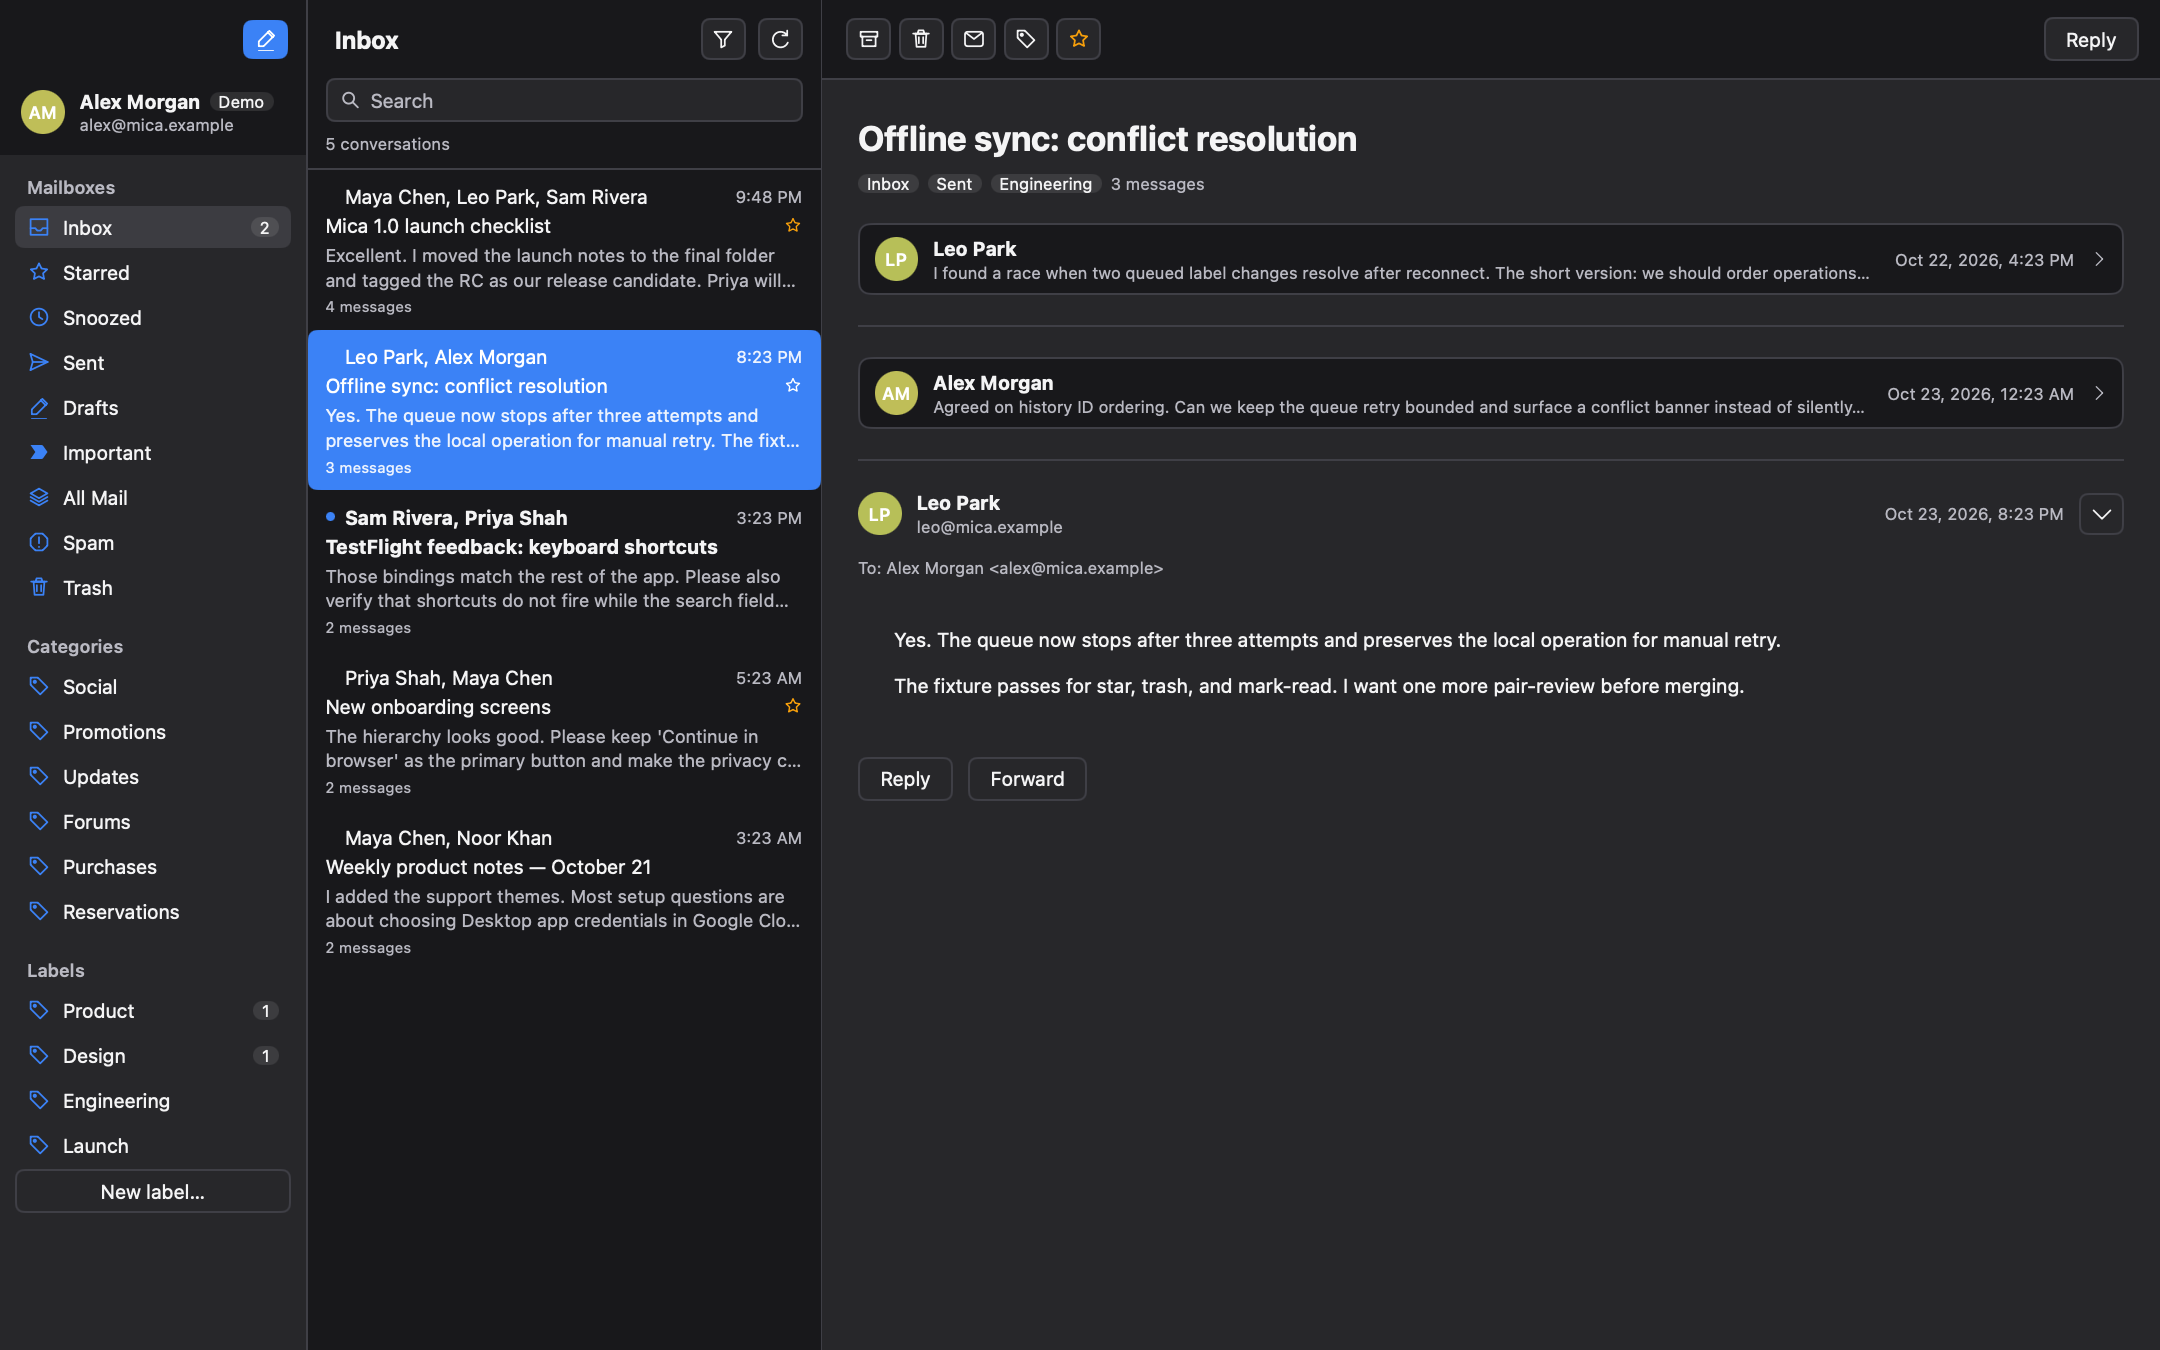
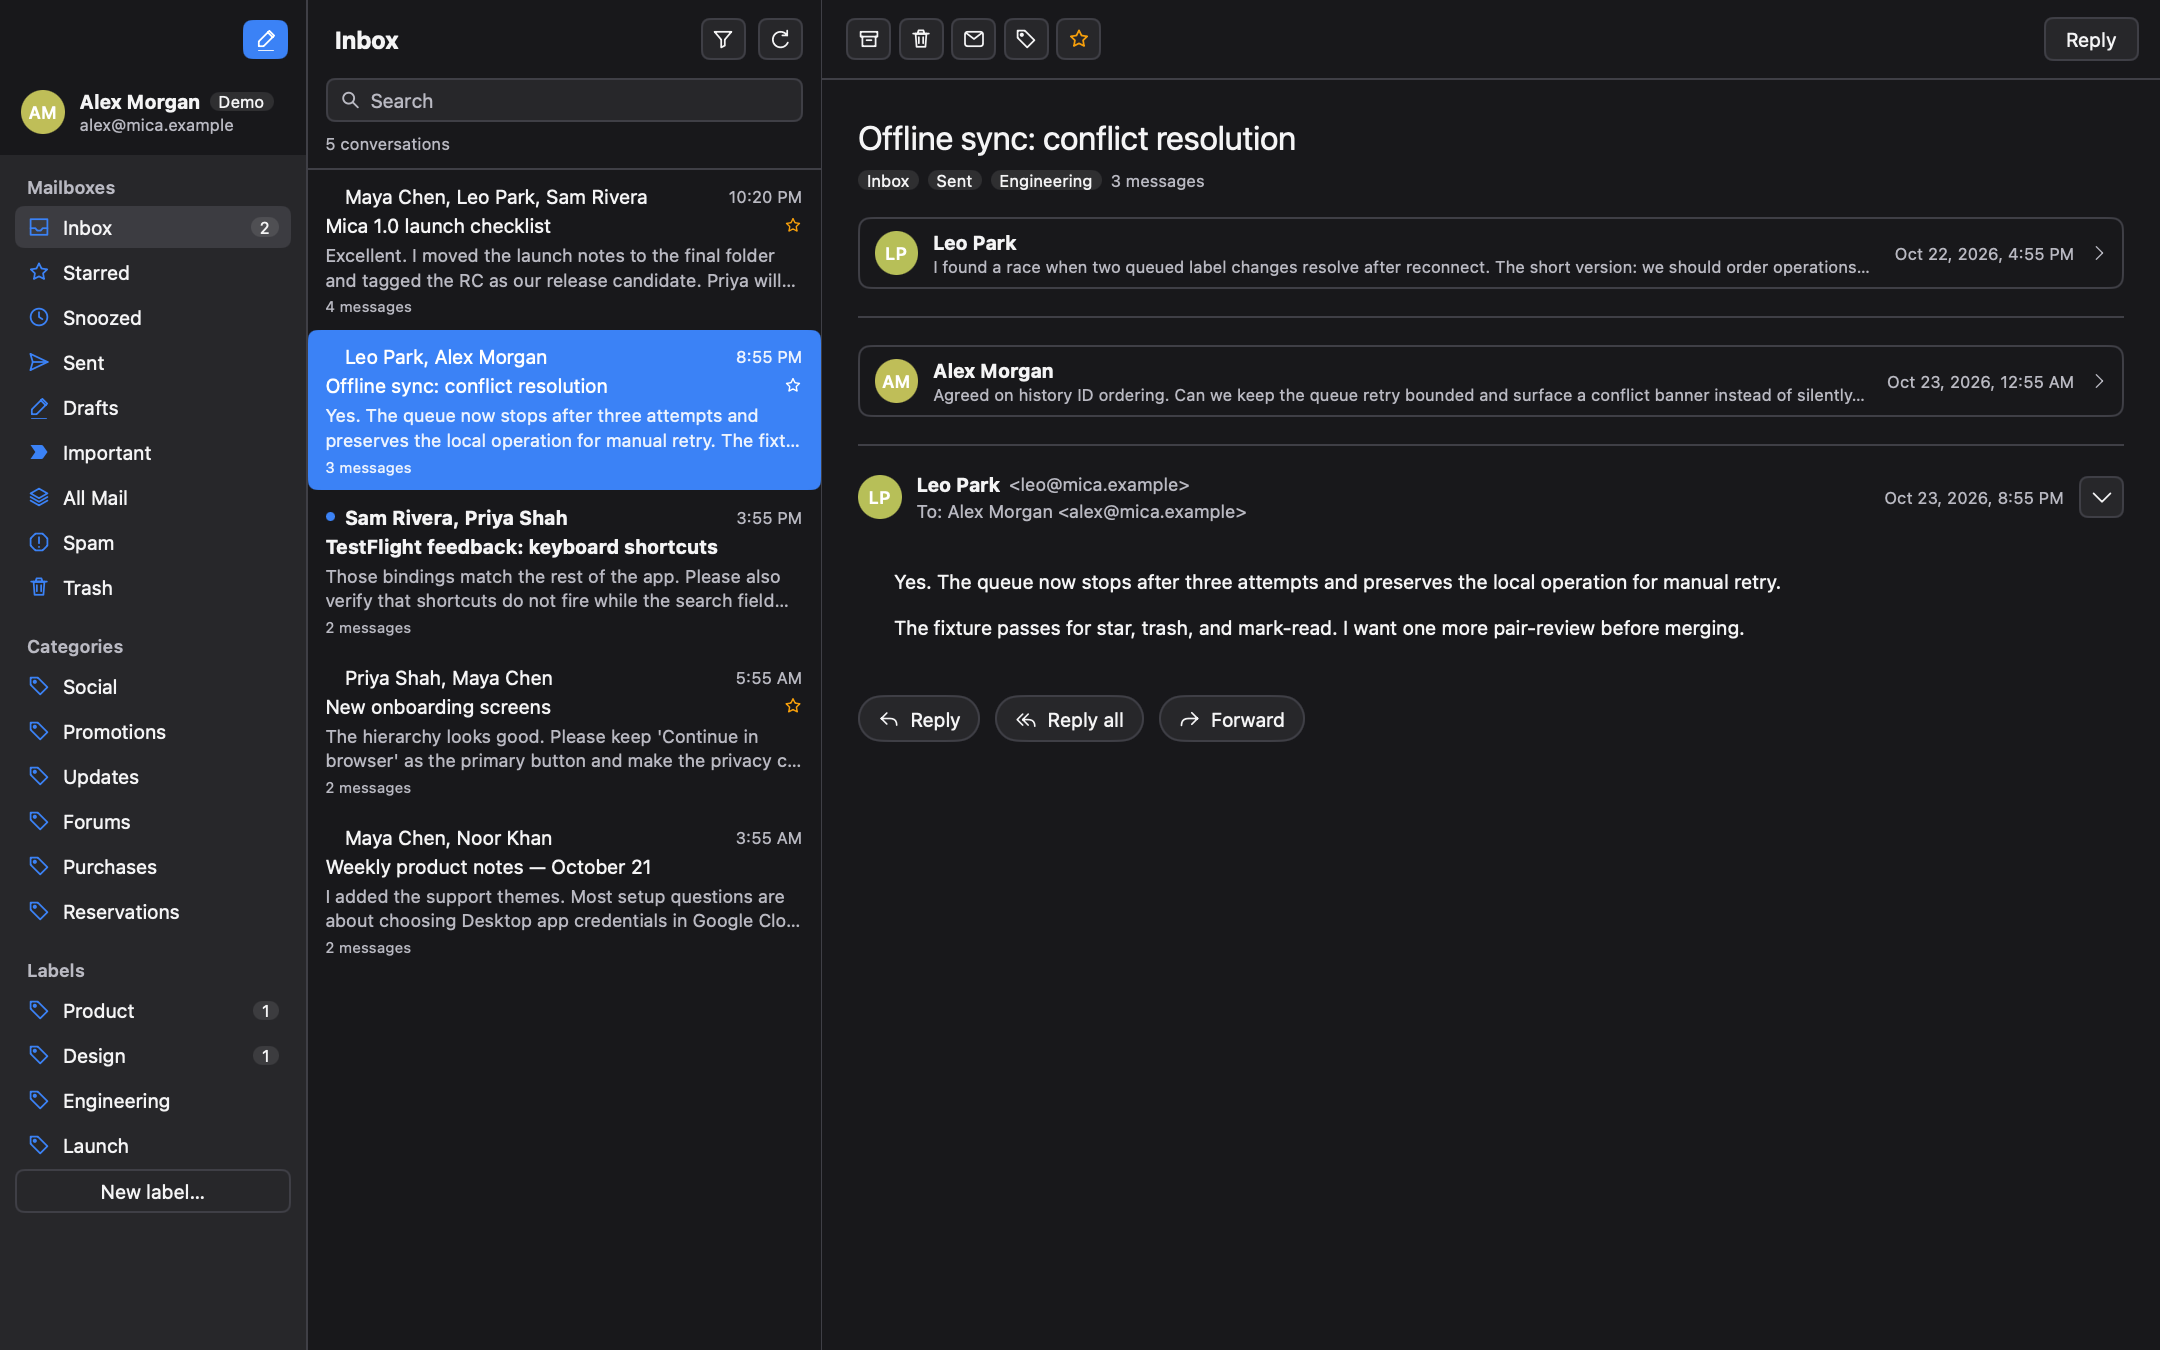
feat: refresh conversation reader

Changed region(s): [[0.4032, 0.0933, 0.9926, 0.5911]]

diff --git a/internal/app/reading.go b/internal/app/reading.go
@@ -83,14 +83,14 @@ func (a *App) labelMenu(m *ui.Menu) {
 func (a *App) threadContent(c *ui.Context) {
 	t := c.Theme()
 	thread := a.thread
-	ui.Scroll(c.Key("read-" + thread.ID)).TrackScroll(&a.readerScroll).Grow(1).Background(t.Surface).Transition(ui.ElementTransition{
+	ui.Scroll(c.Key("read-" + thread.ID)).TrackScroll(&a.readerScroll).Grow(1).Background(t.Background).Transition(ui.ElementTransition{
 		Enter:    &ui.Motion{Y: 10, Opacity: 0},
 		Duration: 240 * time.Millisecond,
 	}).Children(func() {
 		ui.Row(c).Justify(ui.Center).Children(func() {
-			ui.Column(c).Grow(1).MaxWidth(960).Padding(24, 24, 32, 24).Gap(20).Children(func() {
-				ui.Column(c).Gap(10).Children(func() {
-					ui.Text(c, thread.Subject).FontSize(23).Bold().LineHeight(1.25)
+			ui.Column(c).Grow(1).MaxWidth(960).Padding(24, 24, 32, 24).Gap(18).Children(func() {
+				ui.Column(c).Gap(8).Children(func() {
+					ui.Text(c, thread.Subject).FontSize(22).LineHeight(1.3)
 					ui.Row(c).Gap(6).Children(func() {
 						if containsLabel(thread.LabelIDs, mail.Important) {
 							ui.Icon(c, iconImportant).Size(14, 14).TextColor(t.Warning).Label(locales.Important())
@@ -115,17 +115,27 @@ func (a *App) threadContent(c *ui.Context) {
 					a.messageView(c, i, message)
 				}
 				ui.Row(c).Gap(10).Children(func() {
-					ui.Button(c, locales.Reply()).OnClick(a.openReply)
-					ui.Button(c, locales.Forward()).OnClick(a.openForward)
+					threadAction(c, locales.Reply(), iconReply, a.openReply)
+					threadAction(c, locales.ReplyAll(), iconReplyAll, a.openReplyAll)
+					threadAction(c, locales.Forward(), iconForward, a.openForward)
 				})
 			})
 		})
 	})
 }
 
+func threadAction(c *ui.Context, label string, glyph *ui.SVG, action func()) {
+	ui.Button(c, "").Label(label).Padding(7, 12).Radius(16).Children(func() {
+		ui.Row(c).Gap(7).AlignItems(ui.Center).Children(func() {
+			ui.Icon(c, glyph).Size(15, 15)
+			ui.Text(c, label)
+		})
+	}).OnClick(action)
+}
+
 func (a *App) messageView(c *ui.Context, index int, message mail.Message) {
 	t := c.Theme()
-	container := ui.Column(c.Key(message.ID)).Gap(14)
+	container := ui.Column(c.Key(message.ID)).Gap(12)
 	if a.messageScroll == index {
 		container.ScrollIntoView()
 		a.messageScroll = -1
@@ -137,21 +147,23 @@ func (a *App) messageView(c *ui.Context, index int, message mail.Message) {
 		}
 		ui.Row(c).Gap(10).AlignItems(ui.Center).Children(func() {
 			ui.Avatar(c, addressName(message.From), nil)
-			ui.Column(c).Grow(1).MinWidth(0).Gap(2).Children(func() {
-				ui.Row(c).Gap(5).AlignItems(ui.Center).Children(func() {
-					ui.Text(c, addressName(message.From)).Bold().SingleLine()
+			ui.Column(c).Grow(1).MinWidth(0).Gap(3).Children(func() {
+				ui.Row(c).Gap(6).AlignItems(ui.Center).Children(func() {
+					ui.Text(c, addressName(message.From)).Bold().SingleLine().MinWidth(0)
 					if containsLabel(message.LabelIDs, mail.Important) {
 						ui.Icon(c, iconImportant).Size(13, 13).TextColor(t.Warning).Label(locales.Important())
 					}
+					if email := addressEmail(message.From); email != "" {
+						ui.Text(c, "<"+email+">").FontSize(12).TextColor(t.TextMuted).SingleLine().Grow(2).MinWidth(0)
+					}
 				})
-				ui.Text(c, addressEmail(message.From)).FontSize(11).TextColor(t.TextMuted).SingleLine()
+				if message.To != "" {
+					ui.Text(c, locales.SendTo(message.To)).FontSize(12).TextColor(t.TextMuted).SingleLine()
+				}
 			})
-			ui.Text(c, fullTime(c, message.Date)).FontSize(11).TextColor(t.TextMuted)
+			ui.Text(c, fullTime(c, message.Date)).FontSize(11).TextColor(t.TextMuted).Shrink(0)
 			iconButton(c, locales.CollapseMessage(), iconChevronDown, func() { a.setMessageExpanded(message.ID, false) })
 		})
-		if message.To != "" {
-			ui.Text(c, locales.SendTo(message.To)).FontSize(11).TextColor(t.TextMuted)
-		}
 		if message.HTML != "" && a.emailDocument(message).hasContent {
 			a.emailView(c, message)
 		} else if message.Text != "" {

diff --git a/internal/app/email_web_test.go b/internal/app/email_web_test.go
@@ -22,7 +22,7 @@ func TestEmailDocumentPreservesLayoutWithoutScripts(t *testing.T) {
 			t.Fatalf("sanitized body contains %q: %q", unwanted, body)
 		}
 	}
-	document := emailDocumentHTML(body, false)
+	document := emailDocumentHTML(body)
 	if !strings.Contains(document, "default-src 'none'") || !strings.Contains(document, `id="godwit-body"`) {
 		t.Fatalf("document has no isolated body or CSP: %q", document)
 	}
@@ -59,12 +59,21 @@ func TestEmailResourceHandlerServesDataImage(t *testing.T) {
 	}
 }
 
-func TestEmailDocumentUsesDarkModeWithoutInvertingAwareMail(t *testing.T) {
-	if document := emailDocumentHTML(`<style data-dark="">#godwit-body{color:white}</style><p>Dark</p>`, true); !strings.Contains(document, `class="godwit-dark"`) {
+func TestEmailDocumentOnlyInvertsLightOnlyMail(t *testing.T) {
+	if document := emailDocumentHTML(`<style data-dark="">#godwit-body{color:white}</style><p>Dark</p>`); strings.Contains(document, `class="godwit-invert"`) {
 		t.Fatalf("dark-aware mail was inverted: %q", document)
 	}
-	if document := emailDocumentHTML(`<p>Light</p>`, true); !strings.Contains(document, `class="godwit-dark godwit-invert"`) {
-		t.Fatalf("light-only mail was not inverted: %q", document)
+	if document := emailDocumentHTML(`<p>Light</p>`); !strings.Contains(document, `class="godwit-invert"`) {
+		t.Fatalf("light-only mail was not marked for dark-mode inversion: %q", document)
+	}
+}
+
+func TestEmailDocumentFollowsAppearanceChanges(t *testing.T) {
+	document := emailDocumentHTML(`<p>Light</p>`)
+	for _, want := range []string{"@media (prefers-color-scheme: dark)", `class="godwit-invert"`} {
+		if !strings.Contains(document, want) {
+			t.Fatalf("document does not follow appearance changes: missing %q in %q", want, document)
+		}
 	}
 }
 
@@ -99,7 +108,7 @@ func TestEmailResourceStoreIsNotReplacedOnAccountSwitch(t *testing.T) {
 
 func TestEmailDocumentReadingInset(t *testing.T) {
 	const inset = ":where(#godwit-body){box-sizing:border-box;padding:0 24px}"
-	document := emailDocumentHTML(`<p>Body</p>`, false)
+	document := emailDocumentHTML(`<p>Body</p>`)
 	for _, want := range []string{inset, `#godwit-body:has(>[style*="padding"]){padding:0}`} {
 		if !strings.Contains(document, want) {
 			t.Fatalf("document is missing reading inset rule %q: %q", want, document)
@@ -110,7 +119,7 @@ func TestEmailDocumentReadingInset(t *testing.T) {
 		t.Fatalf("inline body padding is not a top-level element: %q", inline)
 	}
 	body := prepareEmailHTML(newEmailResourceStore(newFakeService()), mail.Message{HTML: `<style>body{padding:40px}</style><p>Body</p>`})
-	document = emailDocumentHTML(body, false)
+	document = emailDocumentHTML(body)
 	own := "#godwit-body{padding:40px"
 	defaultAt, ownAt := strings.Index(document, inset), strings.Index(document, own)
 	if defaultAt < 0 || ownAt < 0 || defaultAt > ownAt {
@@ -119,7 +128,7 @@ func TestEmailDocumentReadingInset(t *testing.T) {
 }
 
 func TestEmailDocumentUsesSystemFont(t *testing.T) {
-	for _, want := range []string{"-apple-system", "14px/normal"} {
+	for _, want := range []string{"-apple-system", "14px/1.5"} {
 		if !strings.Contains(emailFrameCSS, want) {
 			t.Fatalf("system font is missing %q", want)
 		}

diff --git a/internal/app/email_web.go b/internal/app/email_web.go
@@ -167,34 +167,33 @@ func walkEmailNodes(node *xhtml.Node, fn func(*xhtml.Node)) {
 	}
 }
 
-func emailDocumentHTML(body string, dark bool) string {
-	class := "godwit-light"
-	if dark {
-		class = "godwit-dark"
-		if !strings.HasPrefix(body, `<style data-dark="">`) {
-			class += " godwit-invert"
-		}
+func emailDocumentHTML(body string) string {
+	class := ""
+	if !strings.HasPrefix(body, `<style data-dark="">`) {
+		class = "godwit-invert"
 	}
 	return `<!doctype html><html><head><meta charset="utf-8"><meta http-equiv="Content-Security-Policy" content="default-src 'none'; style-src 'unsafe-inline'; img-src data: mica-img:"><style>` + emailFrameCSS + `</style></head><body><div id="godwit-body" class="` + class + `">` + body + `</div></body></html>`
 }
 
 const emailFrameCSS = `
 html,body{margin:0;padding:0;background:transparent}
-html{-webkit-text-size-adjust:100%;font:14px/normal -apple-system,BlinkMacSystemFont,"Helvetica Neue",sans-serif}
+html{-webkit-text-size-adjust:100%;font:14px/1.5 -apple-system,BlinkMacSystemFont,"Helvetica Neue",sans-serif}
 #godwit-body{overflow-x:auto;overflow-y:hidden;overflow-wrap:break-word;word-break:break-word}
 :where(#godwit-body){box-sizing:border-box;padding:0 24px}
 #godwit-body:has(>[style*="padding"]){padding:0}
 #godwit-body.godwit-plain{white-space:pre-wrap}
-#godwit-body.godwit-light{color:#0a0a0a}
-#godwit-body.godwit-dark{color:#fafafa}
-#godwit-body.godwit-invert{color:#0a0a0a}
+#godwit-body{color:#0a0a0a}
 #godwit-body a[href],#godwit-body area[href]{cursor:pointer;text-decoration:underline;color:#0b57d0}
-#godwit-body.godwit-dark:not(.godwit-invert) a[href]{color:#8ab4f8}
 #godwit-body img{max-width:100%!important}
 #godwit-body table{max-width:100%}
 #godwit-body td,#godwit-body th{word-break:break-word}
 #godwit-body img:not([height]):not([width]){height:auto}
+@media (prefers-color-scheme: dark){
+#godwit-body{color:#fafafa}
+#godwit-body.godwit-invert{color:#0a0a0a}
+#godwit-body:not(.godwit-invert) a[href]{color:#8ab4f8}
 #godwit-body.godwit-invert,#godwit-body.godwit-invert img{filter:invert(1) hue-rotate(180deg)}
 #godwit-body.godwit-invert [style*="--mica-bg"]{position:relative;isolation:isolate;background-image:none!important}
 #godwit-body.godwit-invert [style*="--mica-bg"]::before{content:"";position:absolute;inset:0;z-index:-1;pointer-events:none;background-image:var(--mica-bg);background-size:inherit;background-position:inherit;background-repeat:inherit;border-radius:inherit;filter:invert(1) hue-rotate(180deg)}
+}
 `

diff --git a/internal/app/reading_test.go b/internal/app/reading_test.go
@@ -36,6 +36,48 @@ func TestMessageBodyCarriesImageDimensions(t *testing.T) {
 	}
 }
 
+func TestThreadContentUsesBackground(t *testing.T) {
+	for _, tc := range []struct {
+		name string
+		dark bool
+	}{
+		{name: "light"},
+		{name: "dark", dark: true},
+	} {
+		t.Run(tc.name, func(t *testing.T) {
+			a := newTestApp(newFakeService())
+			a.selectThread("thread-1")
+			var want ui.Color
+			tt := ui.NewTester(func(c *ui.Context) {
+				want = c.Theme().Background
+				a.threadContent(c)
+			}, 900, 700)
+			tt.SetDark(tc.dark)
+			tt.Advance(time.Second)
+			for _, point := range []struct{ x, y int }{{0, 0}, {899, 0}, {0, 699}, {899, 699}} {
+				got := tt.Image().RGBAAt(point.x, point.y)
+				if got.R != want.R || got.G != want.G || got.B != want.B || got.A != want.A {
+					t.Fatalf("reader background at %v = %v, want %v", point, got, want)
+				}
+			}
+		})
+	}
+}
+
+func TestThreadActionsIncludeReplyAll(t *testing.T) {
+	service := newFakeService()
+	service.thread.Messages[0].To = "demo@example.com, Bob <bob@example.com>"
+	a := newTestApp(service)
+	a.selectThread("thread-1")
+	tt := ui.NewTester(a.View, 1280, 800)
+	if err := tt.Click("Reply all"); err != nil {
+		t.Fatal(err)
+	}
+	if a.compose == nil || !strings.Contains(a.compose.to, "bob@example.com") {
+		t.Fatalf("Reply all recipients = %+v, want Bob included", a.compose)
+	}
+}
+
 func TestMessageViewFallsBackToTextWhenHTMLIsEmpty(t *testing.T) {
 	service := newFakeService()
 	service.thread.Messages[0].Text = "Plain fallback"

diff --git a/internal/app/icons.go b/internal/app/icons.go
@@ -18,6 +18,8 @@ var (
 	iconArchive      = icon(`<path d="M3 4h14v4H3zM4.5 8v8h11V8M8 11h4"/>`)
 	iconCompose      = icon(`<path d="m12.8 3.2 4 4L8 16H4v-4zM11.5 4.5l4 4M4 20h12"/>`)
 	iconReply        = icon(`<path d="m8 5-5 5 5 5M3 10h8c4 0 6 2 6 6"/>`)
+	iconReplyAll     = icon(`<path d="m7 16-5-5 5-5M12 16l-5-5 5-5M7 11h5c4 0 6 2 6 6"/>`)
+	iconForward      = icon(`<path d="m12 5 5 5-5 5M17 10H9c-4 0-6 2-6 6"/>`)
 	iconRefresh      = icon(`<path d="M16 7a6.5 6.5 0 1 0 .5 6M16 3v4h-4"/>`)
 	iconFilter       = icon(`<path d="M3 4h14l-5.5 6.5v5L8.5 17v-6.5z"/>`)
 	iconMail         = icon(`<rect x="2.5" y="4" width="15" height="12" rx="2"/><path d="m3.5 5 6.5 5 6.5-5"/>`)

diff --git a/main.go b/main.go
@@ -89,7 +89,7 @@ func main() {
 			}
 		})
 		a.SetEmailViewFactory(func() (*mygo.WebView, error) {
-			return win.NewWebView(mygo.WebViewOptions{})
+			return win.NewWebView(mygo.WebViewOptions{BackgroundColor: "light-dark(#ffffff, #18181b)"})
 		})
 		a.SetUpdate(win.Update)
 		dir, err := mygo.App.Path(mygo.PathUserData)

diff --git a/internal/app/email_view.go b/internal/app/email_view.go
@@ -108,7 +108,7 @@ func (a *App) emailPage(c *ui.Context, message mail.Message) *emailPage {
 			services.OpenURL(event.URL)
 		}
 	})
-	view.Page().LoadHTML(emailDocumentHTML(body, c.Theme().Dark), "")
+	view.Page().LoadHTML(emailDocumentHTML(body), "")
 	return page
 }
 

diff --git a/docs/design.md b/docs/design.md
@@ -11,7 +11,10 @@ The primary tasks are reading conversations, processing the inbox, and replying 
 The current message is the focus. The sidebar and conversation list stay quiet and compact.
 The sidebar is about 200pt, the list about 340pt, and the reader content is centered and capped at 960pt for comfortable line lengths.
 The interface uses the system font, subtle dividers, unread weight and dots, muted avatars, and one blue accent.
-The reading surface gives HTML and plain-text bodies a 24px horizontal reading inset without an additional card. Root email styles and top-level inline padding take precedence over the HTML default.
+The reader uses one continuous theme background across native UI and email WebViews.
+Email documents follow live appearance changes through `prefers-color-scheme`, keeping an open message readable without reloading it.
+HTML and plain-text bodies have a 24px horizontal reading inset. Root email styles and top-level inline padding take precedence over the HTML default.
+Subjects, sender metadata, and recipients use a compact Gmail-style hierarchy, with Reply, Reply all, and Forward after the conversation.
 The app icon is a white rounded square with a four-color envelope inspired by Gmail, while the interface keeps its own identity.
 English is the source and fallback language, with Simplified Chinese available through MyGo's catalogs.
 Gmail sign-in uses the embedded OAuth client by default; a custom client is available in a collapsed section.
